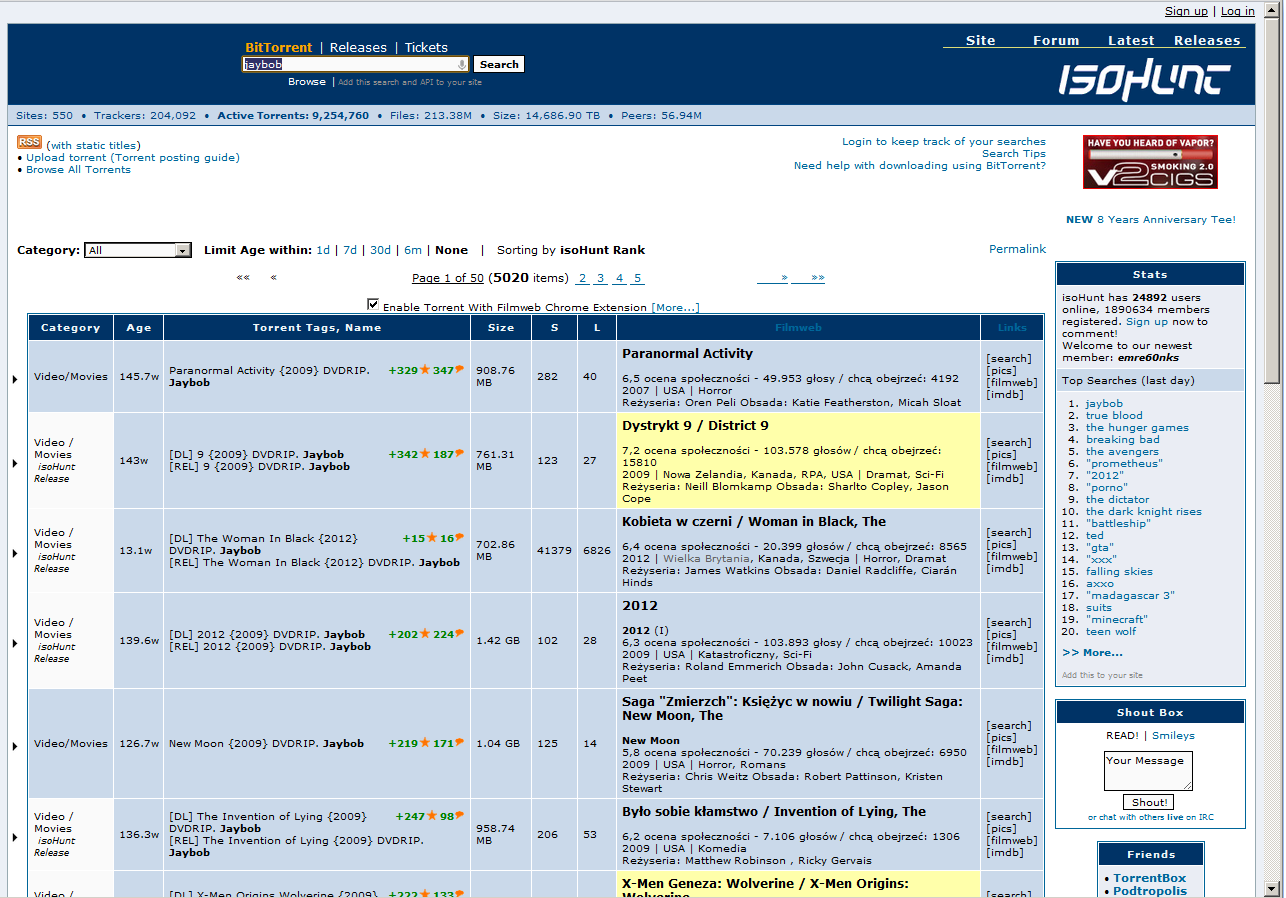
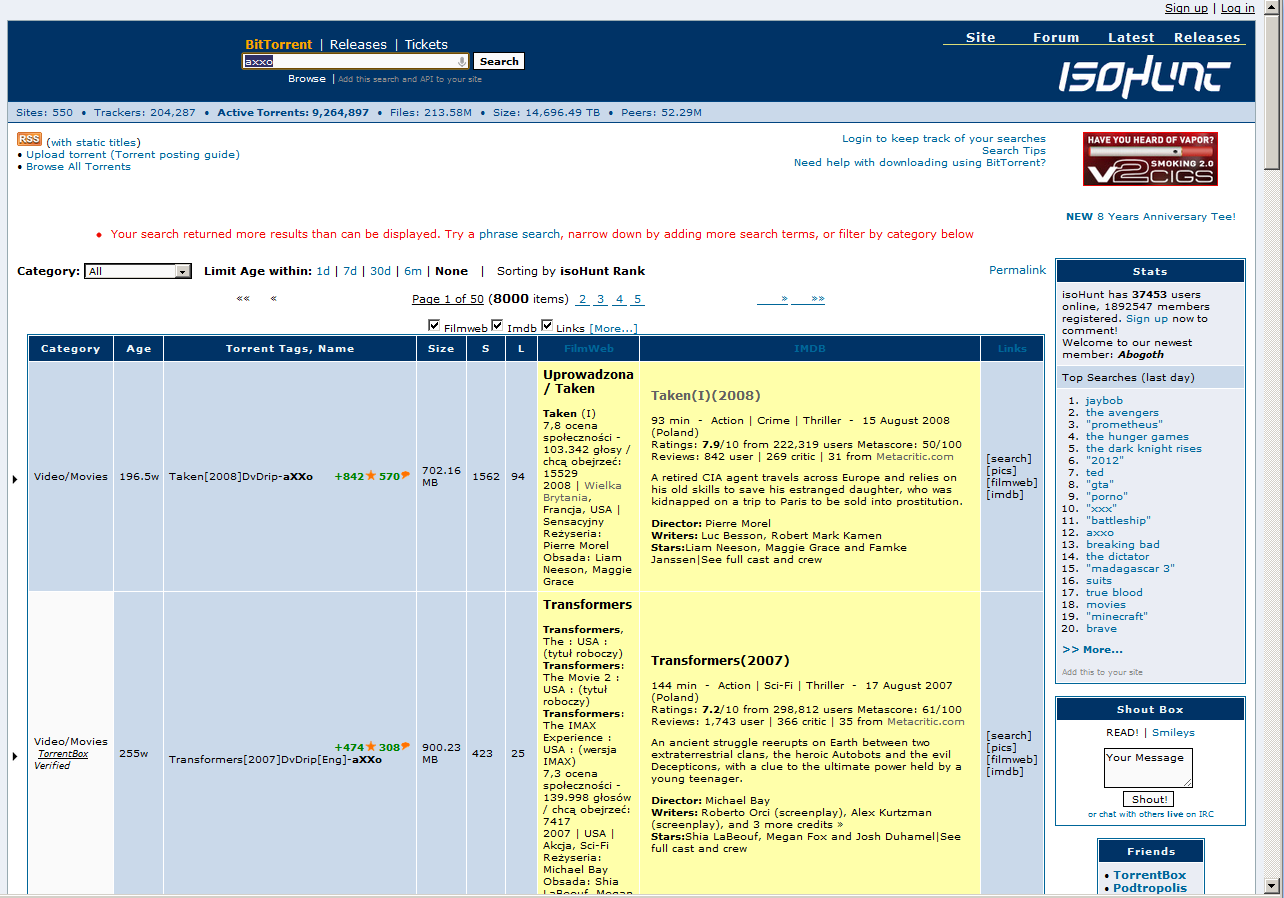
- checkboxes for options - fixed problem with permission

diff --git a/js/imdb.js b/js/imdb.js
@@ -7,9 +7,9 @@ function removeMetaHtmlAttrs(node, what) {
 	}
 }
 
-function extractDataFromMoviePage(contentNode) {
+function extractDataFromMoviePage(contentNode, movieid) {
 	contentNode = contentNode.children(":first").children(":first").children(":first");
-	if (contentNode.length==0){
+	if (contentNode.length == 0) {
 		return $("<p>Can't extract data - looks like IMDB layout problem :(</p>");
 	}
 	contentNode.find("#img_primary").remove();
@@ -28,7 +28,7 @@ function extractDataFromMoviePage(contentNode) {
 		$(this).replaceWith($("<strong>" + $(this).text() + "</strong>"));
 	});
 	contentNode.find("h1").each(function(index) {
-		$(this).replaceWith($("<h3>" + $(this).text() + "<h3>"));
+		$(this).replaceWith($("<h3><a href='"+movieid+"'> " + $(this).text() + "</a><h3>"));
 	});
 	removeMetaHtmlAttrs(contentNode);
 	makeHrefAbsolute(imdbUrl, contentNode);
@@ -47,10 +47,8 @@ function extractPossibleData(data) {
 			titleTitle = removeOnlyBrackets(titleTitle);
 			titleTitle = titleTitle.replace(/titles/gi, "");
 			titleTitle = titleTitle.trim();
-			
-			wrongSections = ["Keywords Approx Matches", 
-			                 "Companies Approx Matches",
-			                 "Names Approx Matches"];
+
+			wrongSections = [ "Keywords Approx Matches", "Companies Approx Matches", "Names Approx Matches" ];
 			if (containsAny(titleTitle, wrongSections)) {
 				return;
 			}
@@ -101,11 +99,12 @@ function extractPossibleData(data) {
 	return contentNode;
 }
 
-function callImdbForMovie(opts, _movieNode, _movie, _theUrl) {
+function callImdbForMovie(opts, _movieNode, _movie, _movieId) {
 
 	var Movie = _movie;
 	var movieNode = _movieNode;
-	var theUrl = _theUrl;
+	var theUrl = imdbUrl + _movieId;
+	var movieId = _movieId;
 
 	callOpts = {
 		url : theUrl,
@@ -114,7 +113,7 @@ function callImdbForMovie(opts, _movieNode, _movie, _theUrl) {
 		},
 		success : function(data) {
 			contentNode = $(data).find("#maindetails_center_top").find("#title-overview-widget");
-			contentNode = extractDataFromMoviePage(contentNode);
+			contentNode = extractDataFromMoviePage(contentNode, movieId);
 			imdbCache.addMovie(Movie, contentNode.html());
 			updateMovieSection(opts, movieNode, contentNode, null);
 		},
@@ -202,23 +201,23 @@ function callImdb(opts, _movieNode, _movie) {
 					callImdbForAnything(opts, _movieNode, _movie);
 				} else {
 
-					movieUrl = null;
+					movieId = null;
 					content.each(function(index) {
 						linkNode = $(this).find("a[href^='/title/tt']");
-						
-						if (movieUrl == null){
-							movieUrl = imdbUrl + linkNode.attr("href");	
-						} 
+
+						if (movieId == null) {
+							movieId = linkNode.attr("href");
+						}
 						if (Movie.year != null) {
 							yearNode = $(this).find(".year_type");
 							year = removeOnlyBrackets(yearNode.text());
-							if (year.indexOf(Movie.year)>=0) {
-								movieUrl = imdbUrl + linkNode.attr("href");	
+							if (year.indexOf(Movie.year) >= 0) {
+								movieId = linkNode.attr("href");
 							}
 						}
 					});
 
-					callImdbForMovie(opts, movieNode, Movie, movieUrl);
+					callImdbForMovie(opts, movieNode, Movie, movieId);
 				}
 			},
 			failure : function(data) {

diff --git a/js/misc.js b/js/misc.js
@@ -2,7 +2,7 @@ function replaceWith(node, str) {
 	node.empty().append(str);
 }
 
-function removeOnlyBrackets(str){
+function removeOnlyBrackets(str) {
 	return str.replace(new RegExp("[\\(\\)]", "gi"), "");
 }
 
@@ -72,19 +72,38 @@ function updateMovieSection(opts, movieNode, contentNode, movie) {
 	}
 }
 
-function addEnableDisablePart(opts, anchor, callback, isSelectedNow) {
-	switchNode = $("<div><input name='enabletorrplugin' type='checkbox'>Enable Torrent With Filmweb Chrome Extension</input>"
-			+ prepateURLToOptions(" [More...]") + "</div>");
+function createCheckbox(id, desc) {
+	return "<input name='" + id + "' type='checkbox'>" + desc + "</input>";
+}
+
+function addEnableDisablePart(opts, anchor) {
+	switchNode = $("<div>" + createCheckbox('enable_filmweb_wito', 'Filmweb') + createCheckbox('enable_imdb_wito', 'Imdb')
+			+ createCheckbox('enable_links_wito', 'Links') + prepateURLToOptions("  [More...]") + "</div>");
 	switchNode.insertBefore(anchor);
 
-	chbNode = switchNode.find("input[name='enabletorrplugin']");
+	chbNode = switchNode.find("input[name='enable_filmweb_wito']");
 	chbNode.click(function() {
-		isSelected = $(this).is(':checked');
-		callback(isSelected);
+		opts.Integration.Integrate_with_Filmweb = $(this).is(':checked');
 		updateOptions(opts);
 		window.location.reload();
 	});
-	chbNode.attr('checked', isSelectedNow);
+	chbNode.attr('checked', opts.Integration.Integrate_with_Filmweb);
+
+	chbNode = switchNode.find("input[name='enable_imdb_wito']");
+	chbNode.click(function() {
+		opts.Integration.Integrate_with_IMDB = $(this).is(':checked');
+		updateOptions(opts);
+		window.location.reload();
+	});
+	chbNode.attr('checked', opts.Integration.Integrate_with_IMDB);
+
+	chbNode = switchNode.find("input[name='enable_links_wito']");
+	chbNode.click(function() {
+		opts.Links.Add_links = $(this).is(':checked');
+		updateOptions(opts);
+		window.location.reload();
+	});
+	chbNode.attr('checked', opts.Links.Add_links);
 
 }
 

diff --git a/background.js b/background.js
@@ -1,43 +1,34 @@
 storage.get('opts', function(result) {
-	if (result.opts==undefined) {
+	if (result.opts == undefined) {
 		result.opts = getDefaultOptions();
 	}
-	
+
 	if (result.opts.General.Enable_this_plugin) {
 
-	chrome.webRequest.onBeforeRequest.addListener(
-	  function(info) {
-//	    alert("url1 intercepted: " + info.url);
-	    return {cancel: true};
-	  },
-	  {
-	    urls: [
-	      "http://clkads.com/*",
-	      "http://player.vimeo.com/*",
-		  "http://www.888poker.com/*"
-	    ]
-	  },
-	  ["blocking"]);
+		if (result.opts.General.Integrate_with_PirateBay) {
 
-	chrome.webRequest.onBeforeRequest.addListener(
-	  function(info) {
-//	    alert("url2 intercepted: " + info.url);
-	    return {cancel: true};
-	  },
-	  {
-	    urls: [
-	      "http://ia.media-imdb.com/images/*",
-	      "http://isohunt.com/*.php*",
-	      "http://www.roulettebotplus.com/*",
-	      "http://pl.hornygirlsexposed.com/*",
-	      "http://survey-awardscenter.net/*",
-	      "http://7.rotator.wigetmedia.com/*",
-		  "http://www.wigetmedia.com/tags/isoww.js"
-	    ]
-	  },
-	  ["blocking"]);
+			chrome.webRequest.onBeforeRequest.addListener(function(info) {
+				// alert("url1 intercepted: " + info.url);
+				return {
+					cancel : true
+				};
+			}, {
+				urls : [ "http://clkads.com/*", "http://player.vimeo.com/*", "http://www.888poker.com/*" ]
+			}, [ "blocking" ]);
+
+		}
+
+		if (result.opts.General.Integrate_with_IsoHunt) {
+			chrome.webRequest.onBeforeRequest.addListener(function(info) {
+				// alert("url2 intercepted: " + info.url);
+				return {
+					cancel : true
+				};
+			}, {
+				urls : [ "http://ia.media-imdb.com/images/*", "http://isohunt.com/*.php*", "http://www.roulettebotplus.com/*",
+						"http://pl.hornygirlsexposed.com/*", "http://survey-awardscenter.net/*", "http://7.rotator.wigetmedia.com/*",
+						"http://www.wigetmedia.com/tags/isoww.js" ]
+			}, [ "blocking" ]);
+		}
 	}
 });
-
-
-

diff --git a/js/main.js b/js/main.js
@@ -2,6 +2,17 @@ function isPirateBay() {
 	return window.location.hostname.indexOf("pirate") >= 0;
 }
 
+function reloadCacheAndDo(callback) {
+	filmwebCache.reload(function() {
+		imdbCache.reload(function() {
+			filmwebCache.removesMoviesOlderThan(opts.Integration.Expire_cache_after_hours);
+			imdbCache.removesMoviesOlderThan(opts.Integration.Expire_cache_after_hours);
+			callback();
+			
+		});
+	});	
+}
+
 $(document).ready(function() {
 
 	chrome.storage.local.get('opts', function(result) {
@@ -10,23 +21,13 @@ $(document).ready(function() {
 		}
 		opts = result.opts;
 		if (opts.General.Enable_this_plugin) {
-			if (isPirateBay()) {
-				filmwebCache.reload(function() {
-					imdbCache.reload(function() {
-						filmwebCache.removesMoviesOlderThan(opts.Integration.Expire_cache_after_hours);
-						imdbCache.removesMoviesOlderThan(opts.Integration.Expire_cache_after_hours);
-						augmentPirateBay(opts);
-					});
-				});
-			} else {
-				filmwebCache.reload(function() {
-					imdbCache.reload(function() {
-						filmwebCache.removesMoviesOlderThan(opts.Integration.Expire_cache_after_hours);
-						imdbCache.removesMoviesOlderThan(opts.Integration.Expire_cache_after_hours);
-						augmentIsoHunt(opts);
-					});
-				});
-			}
+			reloadCacheAndDo(function() {
+				if (isPirateBay()) {
+					augmentPirateBay(opts);
+				} else {
+					augmentIsoHunt(opts);
+				}
+			});
 		}
 	});
 

diff --git a/js/pirateBay.js b/js/pirateBay.js
@@ -1,12 +1,6 @@
 function augmentPirateBay(opts) {
 
-	addEnableDisablePart(opts, '#searchResult', function(isSelected) {
-		opts.General.Integrate_with_PirateBay = isSelected;
-	}, opts.General.Integrate_with_PirateBay);
-
-	if (!opts.General.Integrate_with_PirateBay) {
-		return;
-	}
+	addEnableDisablePart(opts, '#searchResult');
 
 	if (opts.General.Remove_adds_on_PirateBay_and_IsoHunt) {
 		console.log("[MAIN] Removing adds");
@@ -54,7 +48,7 @@ function augmentPirateBay(opts) {
 		}
 
 		if (opts.Links.Add_links) {
-			if (opts.Links.Use_original_title_as_query_param) {
+			if (opts.Links.Use_torrent_title_as_query_param) {
 				linksNode.append(getLinksColumn(opts.Links, {
 					title : removeDelimiter(originalTitle),
 					year : null

diff --git a/js/isoHunt.js b/js/isoHunt.js
@@ -43,9 +43,7 @@ function getCleanTitleIsohunt(movieTitle) {
 
 function augmentIsoHunt(opts) {
 
-	addEnableDisablePart(opts, '#serps', function(isSelected) {
-		opts.General.Integrate_with_IsoHunt = isSelected;
-	}, opts.General.Integrate_with_IsoHunt);
+	addEnableDisablePart(opts, '#serps');
 
 	if (!opts.General.Integrate_with_IsoHunt) {
 		return;
@@ -117,7 +115,7 @@ function augmentIsoHunt(opts) {
 		}
 
 		if (opts.Links.Add_links) {
-			if (opts.Links.Use_original_title_as_query_param) {
+			if (opts.Links.Use_torrent_title_as_query_param) {
 				linksNode.append(getLinksColumn(opts.Links, {
 					title : removeDelimiter(originalTitle),
 					year : null

diff --git a/options.html b/options.html
@@ -1,6 +1,6 @@
 <html>
 <head>
-<title>Torrent With Filmweb Chrome Extension Options</title>
+<title>Movie Description for Torrent Chrome Extension Config</title>
 <meta http-equiv="Content-Type" content="text/html; charset=utf-8" />
 <script src="lib/jquery.min-1.7.2.js"></script>
 <script src="js/storage.js"></script>
@@ -122,7 +122,7 @@ p#fm-intro {
 
 <body>
 
-	<h1>Torrent With Filmweb Chrome Extension Config Page</h1>
+	<h1>Movie Description for Torrent Chrome Extension Config Page</h1>
 	<button id="saveOptions">Save</button>
 	<button id="resetOptions">Reset</button>
 	<button id="cleanCache">Clean Cache</button>

diff --git a/js/cache.js b/js/cache.js
@@ -98,7 +98,7 @@ MovieCache.prototype.removesMoviesOlderThan = function(hours) {
 	this.log("Evicting movies from cache older than " + hours + " hours");
 	for ( var movieKey in this.content) {
 		if (this.isTsOlderThanNHours(this.content[movieKey].timestamp, hours)) {
-			this.log("evicting movie " + movieKey + " from the cache");
+			this.log("evicting movie '" + movieKey + "'");
 			delete this.content[movieKey];
 		}
 	}

diff --git a/js/storage.js b/js/storage.js
@@ -21,7 +21,7 @@ function getDefaultOptions() {
 			Add_Google_Graphic_link : true,
 			Add_Filmweb_link : true,
 			Add_IMDB_link : true,
-			Use_original_title_as_query_param : false,
+			Use_torrent_title_as_query_param : false,
 			Use_movie_title_as_query_param : true
 		}
 	};

diff --git a/README.md b/README.md
@@ -1,12 +1,12 @@
-Torrent With Filmweb Chrome Extension
+Movie Description for Torrent Chrome Extension
 =============================
 
 Google Chrome Extension for torrent sites with following features:
 
 1. Integrates with PirateBay and IsoHunt
-2. Adds additional column to search results with description and movie rating from FilmWeb (it performs some basic heuristic to extract movie title and perform ajax calls to get the data form filmweb)
+2. Adds additional column to search results with description and movie rating from IMDB and/or FilmWeb (it performs some basic heuristic to extract movie title and perform ajax calls to get the data form movie site)
 3. Marks film with high rating to be better visible to the user 
-3. Adds additional column to search results with links to:  Google search, Google graphic, Filmweb, Imdb search for the original torrent title
+3. Adds additional column to search results with links to:  Google search, Google graphic, Filmweb, Imdb search for the original torrent title or movie title
 4. Removes adds
 5. Uses expiring cache
 
